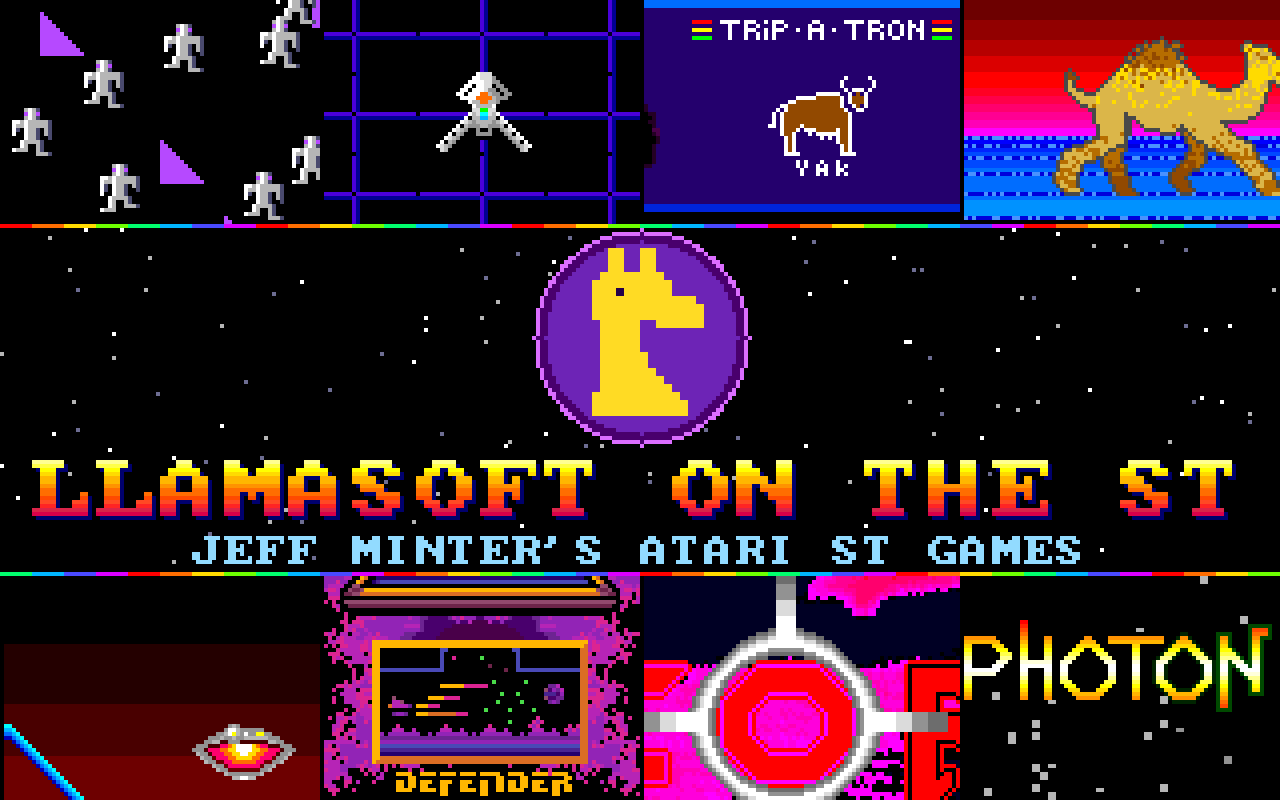
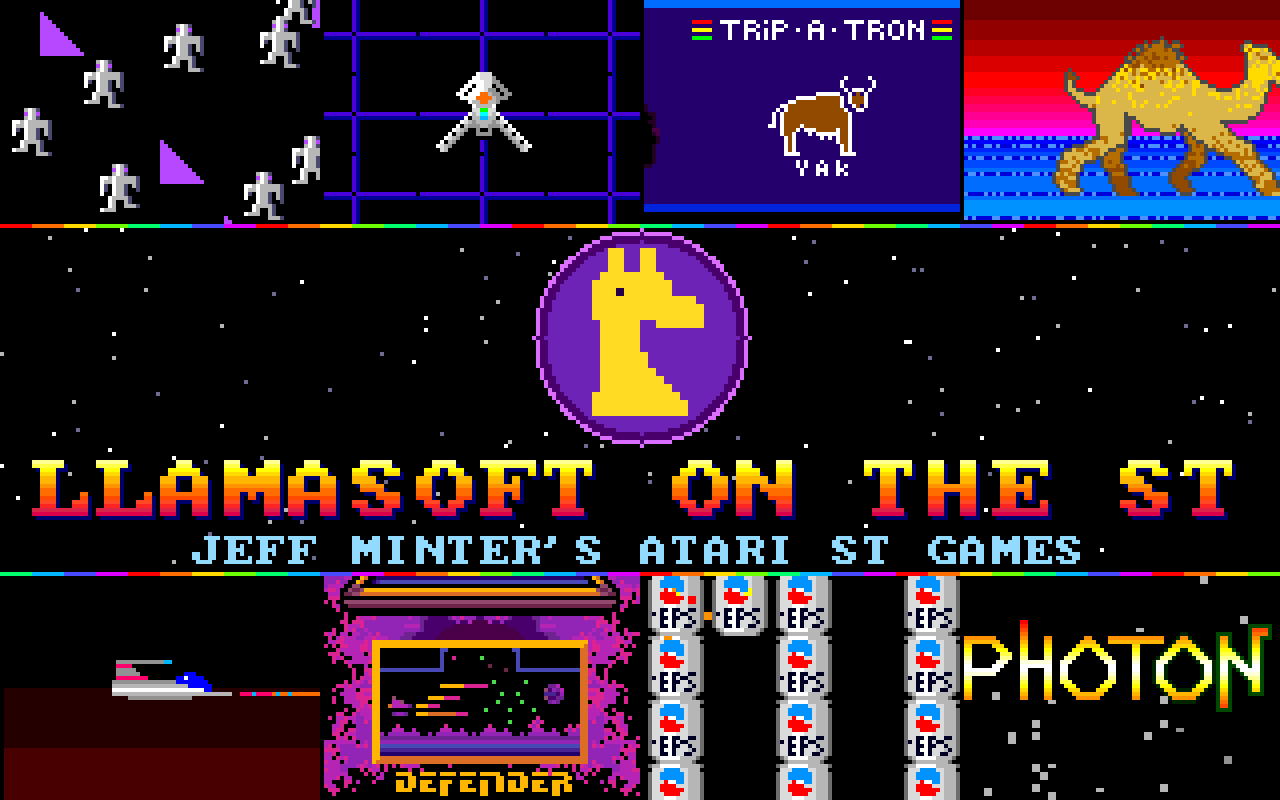
Cover: the Andes Attack ship, Hardcore's Pepsi cans

Changed region(s): [[0.5, 0.7188, 0.75, 1.0], [0.0, 0.7812, 0.25, 1.0]]

diff --git a/Tools/make_cover.py b/Tools/make_cover.py
@@ -4,8 +4,8 @@ Top and bottom: a tile from each game (crops of screenshots - not in git: pass t
 middle the program's llama (Tools/make_icon.py's own art) on a starfield and the title in the program's 8 x 8
 font (SDL's debug font: the public domain IBM VGA one) with a Llamasoft-style raster gradient.
 usage: make_cover.py <folder with src_<game>.bmp screenshots> [out.png]      (python -P: see dis.py)
-The screenshots: --shot from each game (src_llamatron2, src_gridrunner, src_trip, src_rmc, src_andes,
-src_d2title, src_hctitle, src_pstitle); CROPS below says which 80 x 56 part of each is used."""
+The screenshots: --shot from each game (src_llamatron2, src_gridrunner, src_trip, src_rmc, src_andesship,
+src_d2title, src_hccans, src_pstitle); CROPS below says which 80 x 56 part of each is used."""
 import importlib.util
 import os
 import random
@@ -20,7 +20,7 @@ W, H, SCALE = 320, 200, 4
 # (screenshot, left, top) of each 80 x 56 tile; top row then bottom row.
 CROPS = [
     ('src_llamatron2', 20, 32), ('src_gridrunner', 120, 72), ('src_trip', 120, 60), ('src_rmc', 240, 144),
-    ('src_andes', 132, 114), ('src_d2title', 120, 118), ('src_hctitle', 175, 10), ('src_pstitle', 78, 58),
+    ('src_andesship', 34, 100), ('src_d2title', 120, 118), ('src_hccans', 48, 104), ('src_pstitle', 78, 58),
 ]
 
 
